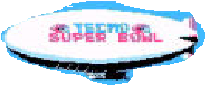
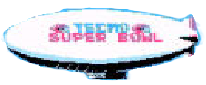
work in progress

diff --git a/index.html b/index.html
@@ -4,6 +4,7 @@
 <head>
     <meta charset="UTF-8">
     <meta name="viewport" content="width=device-width, initial-scale=1.0">
+
     <link rel="stylesheet" href="style.css">
 
 
@@ -11,10 +12,14 @@
 <body>
    <div class="container">
 
-    
-     <img class="bo" src="bo.png" alt="Bo Jackson" >
-     <img class="otherBo" src="otherBo.png" alt="Other Bo Jackson" >
-      <img class="blimp" src="blimp.png" alt="blimp" >
+    <id="racers">
+     <img class="bo" id="racer1" src="bo.png" alt="Bo Jackson" >
+     <img class="otherBo" id=racer2"" src="otherBo.png" alt="Other Bo Jackson" >
+    </id>
+
+
+    <input type="image" src="blimp.png" alt="blimp" name="startbtn" class="blimp" />
+   
 
 
    </div>

diff --git a/style.css b/style.css
@@ -1,26 +1,25 @@
 
 html{
     background-image: url("field.jpg"); 
-   background-repeat: no-repeat;  
-  background-position: 0% 0%;
-  background-size: 100% 100%;
-  height: 100%;
+    background-repeat: no-repeat;  
+    background-position: 0vw 0vh;
+    background-size: 100vw 100vh;
+
   
 }
 
 .bo{
-    padding-top: 600px;
+    padding-top: 70vh;
     height: 200px;
 }
 
 .otherBo{
- 
     height: 200px;
 }
 .blimp{
-    padding-bottom: 580px;
-    padding-left: 1100px;
-    width: 300px;
+    padding-bottom: 5vh;
+    padding-left: 80vw;
+    width: 350px;
 }
 
 

diff --git a/race.js b/race.js
@@ -1,0 +1,16 @@
+$(function(){
+ 
+    racing: false;
+    winner: null;
+    racer1: 0;
+    racer2; 0;
+    intervall: null;
+
+    
+  function startbtn(){
+     document.getElementById("demo").innerHTML = Math.random();
+
+  }
+
+
+})
